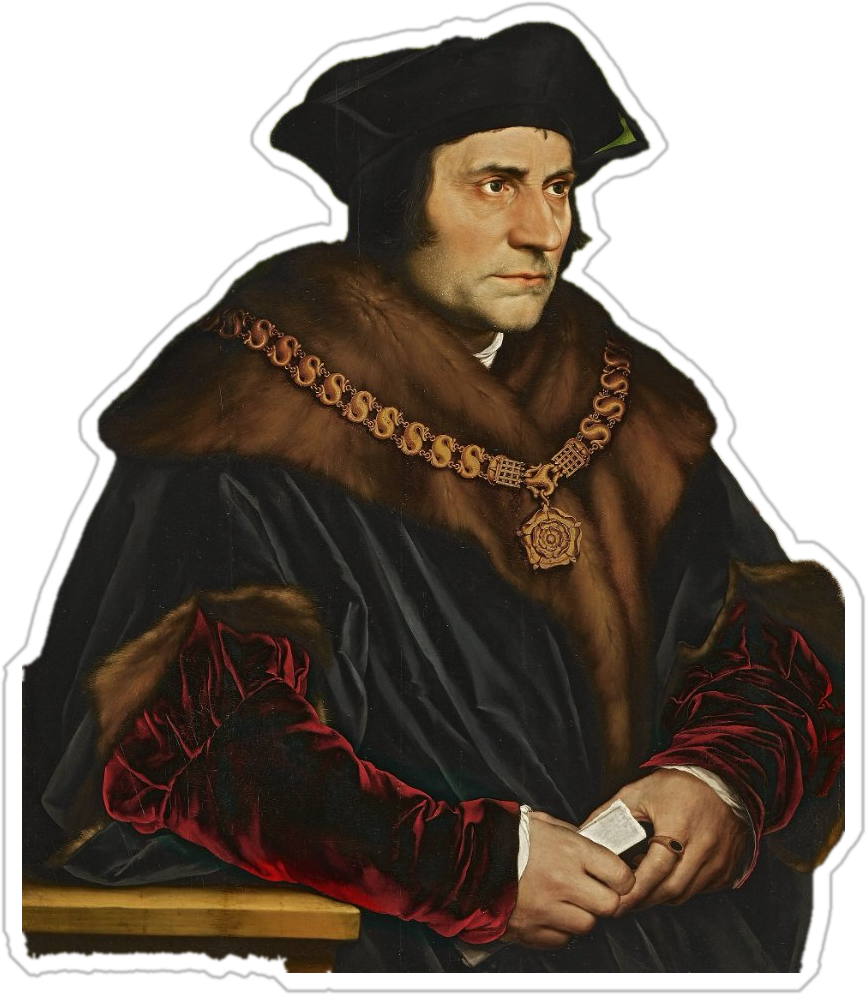
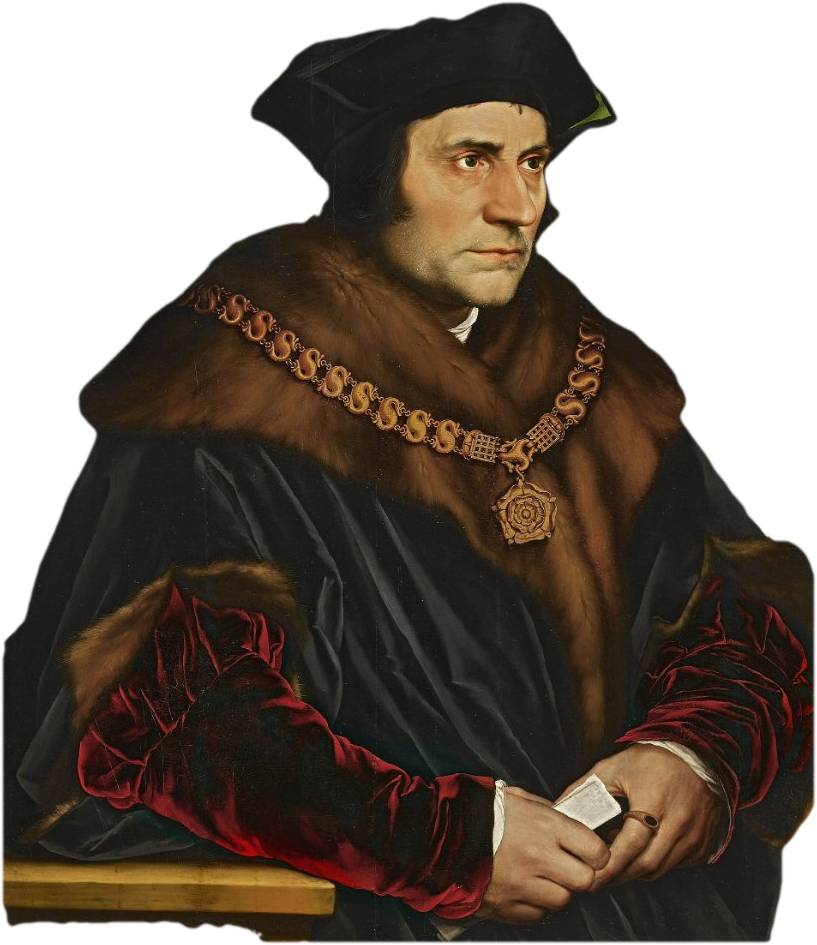
Smooth-edged patron cutout, no outline, sized to the KCYM heading

diff --git a/index.html b/index.html
@@ -41,9 +41,8 @@
     <img src="https://media.base44.com/images/public/69f1cb41579ddeee84426575/0dbefb4ef_SnapInstato_46225361_334448004010470_2610752943758170576_n.jpg" alt="" class="absolute inset-0 w-full h-full object-cover object-center" style="opacity:.18;">
     <div class="absolute inset-0" style="background-color:#6B1A1A; opacity:.75;"></div>
     <div class="relative z-10 h-full flex flex-col md:flex-row items-center justify-between gap-8 px-6 sm:px-16 lg:px-24 py-16">
-      <div class="shrink-0 md:order-2 flex flex-col items-center hero-fade">
-        <img src="assets/images/patron/st-thomas-more-cutout.png" alt="വി. തോമസ് മൂർ" class="w-44 sm:w-52 md:w-64 lg:w-80 h-auto drop-shadow-2xl">
-        <p class="text-center text-white/70 text-xs font-heading mt-2" data-i18n="home-hero-patron">Patron Saint — St. Thomas More</p>
+      <div class="shrink-0 md:order-2 self-start md:self-center hero-fade">
+        <img src="assets/images/patron/st-thomas-more-cutout.png?v=2" alt="വി. തോമസ് മൂർ" class="h-auto drop-shadow-2xl" style="width:clamp(249px,43.6vw,498px);">
       </div>
       <div class="flex flex-col justify-center max-w-2xl hero-fade md:order-1">
         <h1 class="font-heading font-black text-white leading-none" style="font-size:clamp(80px,14vw,160px);">KCYM</h1>

diff --git a/assets/js/i18n.js b/assets/js/i18n.js
@@ -25,7 +25,6 @@ const I18N_ML = {
 
   // --- Homepage ---
   "home-hero-subtitle": "കേരള കാത്തലിക് യൂത്ത് മൂവ്മെന്റ് — അയിരൂർ സെന്റ് ആന്റണീസ് പള്ളിയിൽ വിശ്വാസത്തിൽ അധിഷ്ഠിതവും സാമൂഹിക ബോധമുള്ളതുമായ ഒരു തലമുറയെ വാർത്തെടുക്കുന്നു.",
-  "home-hero-patron": "മധ്യസ്ഥൻ — വി. തോമസ് മൂർ",
   "home-hero-join": "പ്രസ്ഥാനത്തിൽ ചേരൂ",
   "home-hero-learnmore": "കൂടുതൽ അറിയാൻ",
   "home-verse-title": "ഇന്നത്തെ വചനം",
